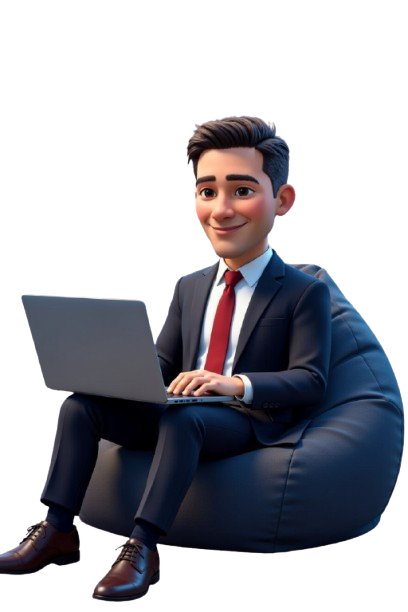
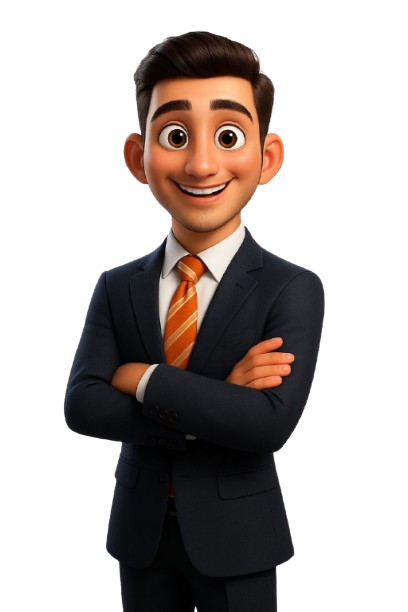
Fixed risklogs file and updated backend for sentinel pay

diff --git a/frontend/src/pages/Dashboard/DashboardLayout.tsx b/frontend/src/pages/Dashboard/DashboardLayout.tsx
@@ -39,18 +39,22 @@ const DashboardLayout: React.FC<{ children: React.ReactNode }> = ({ children }) 
   const fetchData = async () => {
     try {
       const token = localStorage.getItem('accessToken');
+      if (!token) { navigate('/login'); return; }
       const [uRes, nRes] = await Promise.all([
         axios.get('http://127.0.0.1:8000/api/v1/dashboard/summary/', { headers: { Authorization: `Bearer ${token}` } }),
         axios.get('http://127.0.0.1:8000/api/v1/notifications/', { headers: { Authorization: `Bearer ${token}` } })
       ]);
       setUserData(uRes.data);
       setNotifications(nRes.data);
-    } catch (e) { }
+    } catch (e: any) {
+        if (e.response?.status === 401) { localStorage.clear(); navigate('/login'); }
+    }
   };
 
   const fetchNotifs = async () => {
     try {
       const token = localStorage.getItem('accessToken');
+      if (!token) return;
       const res = await axios.get('http://127.0.0.1:8000/api/v1/notifications/', { headers: { Authorization: `Bearer ${token}` } });
       setNotifications(res.data);
     } catch (e) { }
@@ -72,10 +76,10 @@ const DashboardLayout: React.FC<{ children: React.ReactNode }> = ({ children }) 
 
   const menuItems = [
     { name: 'Overview', path: '/dashboard', icon: <LayoutDashboard size={20} /> },
-    { name: 'Behavioral DNA', path: '/dashboard/dna', icon: <Fingerprint size={20} /> },
-    { name: 'Simulator', path: '/dashboard/simulator', icon: <Zap size={20} /> },
-    { name: 'Risk Logs', path: '/dashboard/logs', icon: <History size={20} /> },
-    { name: 'Developer Hub', path: '/dashboard/developer', icon: <Code2 size={20} /> },
+    { name: 'Behavioral DNA', path: '/dna', icon: <Fingerprint size={20} /> },
+    { name: 'Simulator', path: '/simulator', icon: <Zap size={20} /> },
+    { name: 'Risk Logs', path: '/logs', icon: <History size={20} /> },
+    { name: 'Developer Hub', path: '/developer', icon: <Code2 size={20} /> },
   ];
 
   return (
@@ -86,7 +90,7 @@ const DashboardLayout: React.FC<{ children: React.ReactNode }> = ({ children }) 
           <button className={styles.desktopToggle} onClick={() => setIsCollapsed(!isCollapsed)}>{isCollapsed ? <PanelLeftOpen size={22}/> : <PanelLeftClose size={22}/>}</button>
           <button className={styles.mobileCloseBtn} onClick={() => setIsMobileOpen(false)}><X size={24}/></button>
         </div>
-        <nav className={styles.nav}>{menuItems.map((item) => (<Link key={item.path} to={item.path} className={`${styles.navItem} ${location.pathname === item.path ? styles.active : ''}`} onClick={() => setIsMobileOpen(false)}><div className={styles.iconWrapper}>{item.icon}</div>{!isCollapsed && <span>{item.name}</span>}</Link>))}</nav>
+        <nav className={styles.nav}>{menuItems.map((item) => (<Link key={item.path} to={`/dashboard${item.path}`} className={`${styles.navItem} ${location.pathname === `/dashboard${item.path}` ? styles.active : ''}`} onClick={() => setIsMobileOpen(false)}><div className={styles.iconWrapper}>{item.icon}</div>{!isCollapsed && <span>{item.name}</span>}</Link>))}</nav>
         <div className={styles.sidebarFooter}><Link to="/dashboard/settings" className={styles.navItem} onClick={() => setIsMobileOpen(false)}><div className={styles.iconWrapper}><Settings size={20}/></div>{!isCollapsed && <span>Settings</span>}</Link><button onClick={() => {localStorage.clear(); navigate('/login');}} className={styles.logoutBtn}><div className={styles.iconWrapper}><LogOut size={20}/></div>{!isCollapsed && <span>Sign Out</span>}</button></div>
       </motion.aside>
 
@@ -94,18 +98,31 @@ const DashboardLayout: React.FC<{ children: React.ReactNode }> = ({ children }) 
         <header className={styles.topBar}>
           <div className={styles.topBarLeft}>
             <button className={styles.mobileHamburger} onClick={() => setIsMobileOpen(true)}><Menu size={24}/></button>
-            <div className={styles.mobileLogo}><ShieldCheck size={22} color="#0984e3" /><span>Sentinel</span></div>
-            <div className={styles.tickerContainer}><AnimatePresence mode="wait"><motion.p key={currentSlide} initial={{ y: 15, opacity: 0 }} animate={{ y: 0, opacity: 1 }} exit={{ y: -15, opacity: 0 }} className={styles.tickerText}>{infoSlides[currentSlide]}</motion.p></AnimatePresence></div>
+            <div className={styles.tickerContainer}>
+              <AnimatePresence mode="wait"><motion.p key={currentSlide} initial={{ y: 15, opacity: 0 }} animate={{ y: 0, opacity: 1 }} exit={{ y: -15, opacity: 0 }} className={styles.tickerText}>{infoSlides[currentSlide]}</motion.p></AnimatePresence>
+            </div>
           </div>
           <div className={styles.topBarRight}>
             <div className={`${styles.shieldStatus} ${userData?.is_active ? styles.shieldActive : styles.shieldIdle}`}>{userData?.is_active ? <Shield size={18} /> : <ShieldQuestion size={18} />}<span>{userData?.is_active ? 'Identity Verified' : 'Unverified'}</span></div>
             <div className={styles.notifWrapper} ref={notifRef}><button className={styles.notificationBtn} onClick={toggleNotifs}><Bell size={20} />{unreadCount > 0 && <span className={styles.notificationBadge}>{unreadCount}</span>}</button>
-                <AnimatePresence>{isNotifOpen && (<motion.div initial={{ opacity: 0, y: 10 }} animate={{ opacity: 1, y: 0 }} exit={{ opacity: 0, y: 10 }} className={styles.notifDropdown}><div className={styles.notifHeader}><h4>Alerts</h4><span>{unreadCount} new</span></div><div className={styles.notifList}>{notifications.length > 0 ? notifications.map(n => (<div key={n.id} className={`${styles.notifItem} ${!n.is_read ? styles.unread : ''}`}><div className={`${styles.notifIcon} ${styles[n.type]}`}>{n.type==='fraud'?<ShieldAlert size={16}/>:<Info size={16}/>}</div><div className={styles.notifBody}><p className={styles.notifTitle}>{n.title}</p><p className={styles.notifMsg}>{n.message}</p></div></div>)) : <div className={styles.emptyNotifs}><Check size={24}/> All caught up</div>}</div></motion.div>)}</AnimatePresence>
+                <AnimatePresence>{isNotifOpen && (
+                    <motion.div initial={{ opacity: 0, y: 10 }} animate={{ opacity: 1, y: 0 }} exit={{ opacity: 0, y: 10 }} className={styles.notifDropdown}>
+                        <div className={styles.notifHeader}><h4>Alerts</h4><span>{unreadCount} new</span></div>
+                        <div className={styles.notifList}>
+                            {notifications.length > 0 ? notifications.map(n => (
+                                <div key={n.id} className={`${styles.notifItem} ${!n.is_read ? styles.unread : ''}`}><div className={`${styles.notifIcon} ${styles[n.type]}`}>{n.type==='fraud'?<ShieldAlert size={16}/>:<Info size={16}/>}</div><div className={styles.notifBody}><p className={styles.notifTitle}>{n.title}</p><p className={styles.notifMsg}>{n.message}</p></div></div>
+                            )) : <div className={styles.emptyNotifs}><Check size={24}/> All caught up</div>}
+                        </div>
+                    </motion.div>
+                )}</AnimatePresence>
             </div>
             <div className={styles.divider}></div>
             <button className={styles.profileDropdown} onClick={() => navigate('/dashboard/settings')}>
-               <div className={styles.userInfo}><span className={styles.userName}>{userData ? `${userData.user_name}` : 'Syncing...'}</span></div>
-               <div className={`${styles.avatarContainer} ${userData?.avatar ? styles.hasStory : ''}`}><div className={styles.avatarRing}></div><div className={styles.avatarCircle}>{userData?.avatar ? <img src={userData.avatar.startsWith('http') ? userData.avatar : `http://127.0.0.1:8000${userData.avatar}`} alt="Avatar" className={styles.avatarImg} /> : <User size={18}/>}</div></div>
+               <div className={styles.userInfo}><span className={styles.userName}>{userData ? userData.user_name : 'Loading...'}</span></div>
+               <div className={`${styles.avatarContainer} ${userData?.avatar ? styles.hasStory : ''}`}>
+                  <div className={styles.avatarRing}></div>
+                  <div className={styles.avatarCircle}>{userData?.avatar ? <img src={userData.avatar.startsWith('http') ? userData.avatar : `http://127.0.0.1:8000${userData.avatar}`} alt="Avatar" className={styles.avatarImg} /> : <User size={18}/>}</div>
+               </div>
             </button>
           </div>
         </header>

diff --git a/backend/api/views.py b/backend/api/views.py
@@ -4,7 +4,7 @@ import json
 import pandas as pd
 import joblib
 import shutil
-import uuid  # ADDED THIS IMPORT TO FIX THE 500 ERROR
+import uuid
 from datetime import datetime
 from django.conf import settings
 from django.db.models import Count
@@ -46,16 +46,15 @@ class RegisterView(generics.CreateAPIView):
         serializer.is_valid(raise_exception=True)
         user = serializer.save()
         
-        # Create initial notification
         Notification.objects.create(
             user=user,
             title="Welcome to Sentinel-Pay",
-            message="Your account is active. Please upload history to enable AI protection.",
+            message="Account active. Please upload history to enable AI protection.",
             notif_type='system'
         )
         
         return Response({
-            "message": "User created successfully. Sentinel-Pay profile initialized.",
+            "message": "User created successfully.",
             "user": UserSerializer(user).data
         }, status=status.HTTP_201_CREATED)
 
@@ -110,7 +109,6 @@ class DNAUploadView(APIView):
                 destination.write(chunk)
 
         try:
-            # 1. Extract patterns and save to HistoricalTransaction table
             dna_data = extract_dna_from_file(path, request.user)
 
             if dna_data:
@@ -121,13 +119,12 @@ class DNAUploadView(APIView):
                 profile.is_profile_active = True
                 profile.save()
 
-                # 2. TRIGGER AI TRAINING
-                training_success = train_user_models(request.user)
+                train_user_models(request.user)
 
                 Notification.objects.create(
                     user=request.user,
                     title="DNA Profile Built",
-                    message="AI models have been trained on your history. Behavioral DNA protection is now active.",
+                    message="AI models have been trained. Behavioral protection is active.",
                     notif_type='system'
                 )
 
@@ -135,8 +132,7 @@ class DNAUploadView(APIView):
 
                 return Response({
                     "status": "success",
-                    "dna_stats": dna_data,
-                    "ai_trained": training_success
+                    "dna_stats": dna_data
                 }, status=status.HTTP_200_OK)
             
             return Response({"error": "Failed to parse history."}, status=400)
@@ -166,7 +162,7 @@ class ResetProfileView(APIView):
             profile.is_profile_active = False
             profile.save()
 
-            return Response({"message": "Behavioral DNA wiped. AI is now idle."}, status=200)
+            return Response({"message": "Behavioral DNA wiped."}, status=200)
         except Exception as e:
             return Response({"error": str(e)}, status=500)
 
@@ -189,7 +185,7 @@ class TransactionAnalyzeView(APIView):
         local_iso_path = os.path.join(local_dir, 'iso_model.joblib')
 
         if not os.path.exists(global_model_path):
-            return Response({"error": "Global AI Knowledge Base not found."}, status=500)
+            return Response({"error": "Global Knowledge Base not found."}, status=500)
 
         try:
             input_df = pd.DataFrame([[amount, current_hour, merchant_risk_score]], columns=['amount', 'hour', 'merchant_risk'])
@@ -214,32 +210,30 @@ class TransactionAnalyzeView(APIView):
 
         if amount > (avg_hist * 10):
             rule_penalty += 0.45
-            explanations.append({"feature": "Limit", "impact": "CRITICAL", "reason": f"Extreme Spike: ₦{amount:,.0f} is 10x your average. Fraud signature detected."})
+            explanations.append({"feature": "Limit", "impact": "CRITICAL", "reason": f"Extreme Spike: ₦{amount:,.0f} is 10x your average."})
         elif amount > (avg_hist * 3):
             rule_penalty += 0.15
-            explanations.append({"feature": "Limit", "impact": "HIGH", "reason": f"Unusual Spike: High deviation from your historical profile."})
+            explanations.append({"feature": "Limit", "impact": "HIGH", "reason": f"Unusual Spike: High deviation from profile."})
         else:
-            explanations.append({"feature": "Limit", "impact": "SAFE", "reason": "Amount aligns with your behavioral DNA."})
+            explanations.append({"feature": "Limit", "impact": "SAFE", "reason": "Amount aligns with history."})
 
         if current_hour not in profile.typical_active_hours:
             rule_penalty += 0.2
-            explanations.append({"feature": "Time", "impact": "HIGH", "reason": f"Clock Anomaly: Request at {current_hour}:00 is an outlier."})
+            explanations.append({"feature": "Time", "impact": "HIGH", "reason": f"Clock Anomaly: Detected at {current_hour}:00."})
         else:
-            explanations.append({"feature": "Time", "impact": "SAFE", "reason": "Standard active window matches history."})
+            explanations.append({"feature": "Time", "impact": "SAFE", "reason": "Standard active window."})
 
         final_fraud_score = min(base_ai_score + rule_penalty, 1.0)
         status_action = 'blocked' if final_fraud_score >= 0.80 else 'flagged' if final_fraud_score >= 0.40 else 'approved'
 
-        # Log Data
         txn = Transaction.objects.create(user=user, amount=amount, merchant=data.get('recipient','Transfer'), status=status_action)
         FraudAnalysis.objects.create(transaction=txn, fraud_score=final_fraud_score, risk_level='high' if status_action=='blocked' else 'low', shap_explanations=explanations)
 
-        # CREATE NOTIFICATION IF RISK IS HIGH
         if status_action in ['blocked', 'flagged']:
             Notification.objects.create(
                 user=user,
                 title=f"Security Alert: {status_action.capitalize()}",
-                message=f"A transaction of ₦{amount:,.0f} to {txn.merchant} was {status_action} by the Ensemble Engine.",
+                message=f"A transaction to {txn.merchant} was {status_action} by the AI Ensemble.",
                 notif_type='fraud'
             )
 
@@ -260,30 +254,24 @@ class VerifyTransactionView(APIView):
             txn.save()
             HistoricalTransaction.objects.create(user=request.user, amount=txn.amount, description=f"Manually Authorized")
             train_user_models(request.user)
-            Notification.objects.create(user=request.user, title="AI Intelligence Updated", message="Pattern marked as safe for your profile.", notif_type='system')
+            Notification.objects.create(user=request.user, title="AI Intelligence Updated", message="Authorized pattern learned.", notif_type='system')
             return Response({"status": "success"})
         except:
-            return Response({"error": "Txn not found"}, status=404)
+            return Response({"error": "Failed"}, status=400)
 
 
 # --- 4. PUBLIC API GATEWAY ---
 
 class PublicAnalyzeView(APIView):
     permission_classes = [AllowAny]
-
     def post(self, request):
-        # 1. Authenticate via Key
         key_header = request.headers.get('X-Sentinel-Key')
-        if not key_header:
-            return Response({"error": "No API Key provided"}, status=401)
-        
         try:
             api_key_obj = APIKey.objects.get(key=key_header)
             user = api_key_obj.user
-        except APIKey.DoesNotExist:
+        except:
             return Response({"error": "Invalid API Key"}, status=401)
 
-        # 2. RUN AI MODELS
         data = request.data
         amount = float(data.get('amount', 0))
         current_hour = int(data.get('hour', datetime.now().hour))
@@ -296,7 +284,6 @@ class PublicAnalyzeView(APIView):
         try:
             input_df = pd.DataFrame([[amount, current_hour, merchant_risk]], columns=['amount', 'hour', 'merchant_risk'])
             global_prob = joblib.load(g_path).predict_proba(input_df)[0][1]
-            
             if os.path.exists(l_path):
                 local_pred = joblib.load(l_path).predict(input_df[['amount', 'hour']])[0]
                 local_score = 0.7 if local_pred == -1 else 0.1
@@ -305,23 +292,20 @@ class PublicAnalyzeView(APIView):
             
             final_score = (global_prob * 0.5) + (local_score * 0.5)
             status_action = 'blocked' if final_score > 0.7 else 'flagged' if final_score > 0.4 else 'approved'
-            
             return Response({
                 "status": status_action,
                 "fraud_probability": round(final_score * 100, 1),
-                "analyzed_by": "Sentinel Triple-Ensemble Engine",
                 "request_id": str(uuid.uuid4())[:8],
                 "owner": user.email
             })
         except Exception as e:
-            return Response({"error": f"Internal AI Failure: {str(e)}"}, status=500)
+            return Response({"error": str(e)}, status=500)
 
 
-# --- 5. LOGS & STATS VIEWS ---
+# --- 5. LOGS & STATS ---
 
 class RiskLogsView(APIView):
     permission_classes = [IsAuthenticated]
-
     def get(self, request):
         transactions = Transaction.objects.filter(user=request.user).order_by('-timestamp')
         log_data = []
@@ -329,12 +313,9 @@ class RiskLogsView(APIView):
             try:
                 analysis = txn.ai_analysis
                 log_data.append({
-                    "id": str(txn.id),
-                    "timestamp": txn.timestamp,
-                    "amount": float(txn.amount),
-                    "merchant": txn.merchant,
-                    "status": txn.status,
-                    "fraud_score": round(analysis.fraud_score * 100, 1),
+                    "id": str(txn.id), "timestamp": txn.timestamp, "amount": float(txn.amount), 
+                    "merchant": txn.merchant, "status": txn.status, 
+                    "fraud_score": round(analysis.fraud_score * 100, 1), 
                     "explanations": analysis.shap_explanations
                 })
             except: continue
@@ -346,38 +327,32 @@ class DNAStatsView(APIView):
         try:
             profile = request.user.behavioral_profile
             hour_data = [{"hour": f"{h:02d}:00", "value": 100 if h in profile.typical_active_hours else 20} for h in range(24)]
-            category_counts = HistoricalTransaction.objects.filter(user=request.user).values('category').annotate(value=Count('category')).order_by('-value')
-            merchant_data = [{"name": item['category'] if item['category'] else "Others", "value": item['value']} for item in category_counts]
-            
+            cats = HistoricalTransaction.objects.filter(user=request.user).values('category').annotate(value=Count('category')).order_by('-value')
             return Response({
                 "avg_amount": float(profile.avg_transaction_amount),
                 "max_amount": float(profile.max_transaction_amount),
                 "active_hours": hour_data,
-                "merchants": merchant_data if merchant_data else [{"name": "No Data", "value": 100}],
-                "is_active": profile.is_profile_active,
-                "last_updated": profile.last_updated
+                "merchants": [{"name": c['category'] if c['category'] else "Other", "value": c['value']} for c in cats],
+                "is_active": profile.is_profile_active
             })
         except: return Response({"error": "No profile"}, status=404)
 
 class DashboardSummaryView(APIView):
     permission_classes = [IsAuthenticated]
     def get(self, request):
-        user = request.user
+        u = request.user
         try:
-            profile = user.behavioral_profile
-            history_count = HistoricalTransaction.objects.filter(user=user).count()
-            dna_strength = min(int((history_count / 50) * 100), 100) if history_count > 0 else 0
-            blocked = Transaction.objects.filter(user=user, status='blocked').count()
-            recent = Transaction.objects.filter(user=user).order_by('-timestamp')[:3]
-            
+            p = u.behavioral_profile
+            h_count = HistoricalTransaction.objects.filter(user=u).count()
+            name = f"{u.first_name} {u.last_name}" if u.first_name else f"{u.email.split('@')[0]}"
             return Response({
-                "is_active": profile.is_profile_active,
-                "dna_strength": dna_strength,
-                "total_simulations": Transaction.objects.filter(user=user).count(),
-                "threats_blocked": blocked,
-                "recent_activity": [{"id": str(t.id)[:8], "merchant": t.merchant, "amount": float(t.amount), "status": t.status} for t in recent],
-                "user_name": f"{user.first_name} {user.last_name}" if user.first_name else f"{user.email.split('@')[0]}",
-                "avatar": user.avatar.url if user.avatar else None
+                "is_active": p.is_profile_active,
+                "dna_strength": min(int((h_count / 50) * 100), 100),
+                "total_simulations": Transaction.objects.filter(user=u).count(),
+                "threats_blocked": Transaction.objects.filter(user=u, status='blocked').count(),
+                "recent_activity": [{"id": str(t.id)[:8], "merchant": t.merchant, "amount": float(t.amount), "status": t.status} for t in Transaction.objects.filter(user=u).order_by('-timestamp')[:3]],
+                "user_name": name,
+                "avatar": u.avatar.url if u.avatar else None
             })
         except: return Response({"error": "Dashboard failed"}, status=500)
 
@@ -418,7 +393,6 @@ class NotificationListView(APIView):
         return Response([{
             "id": n.id, "title": n.title, "message": n.message, "type": n.notif_type, "is_read": n.is_read, "time": n.created_at
         } for n in notifs])
-
     def post(self, request):
         Notification.objects.filter(user=request.user).update(is_read=True)
         return Response({"status": "read"})